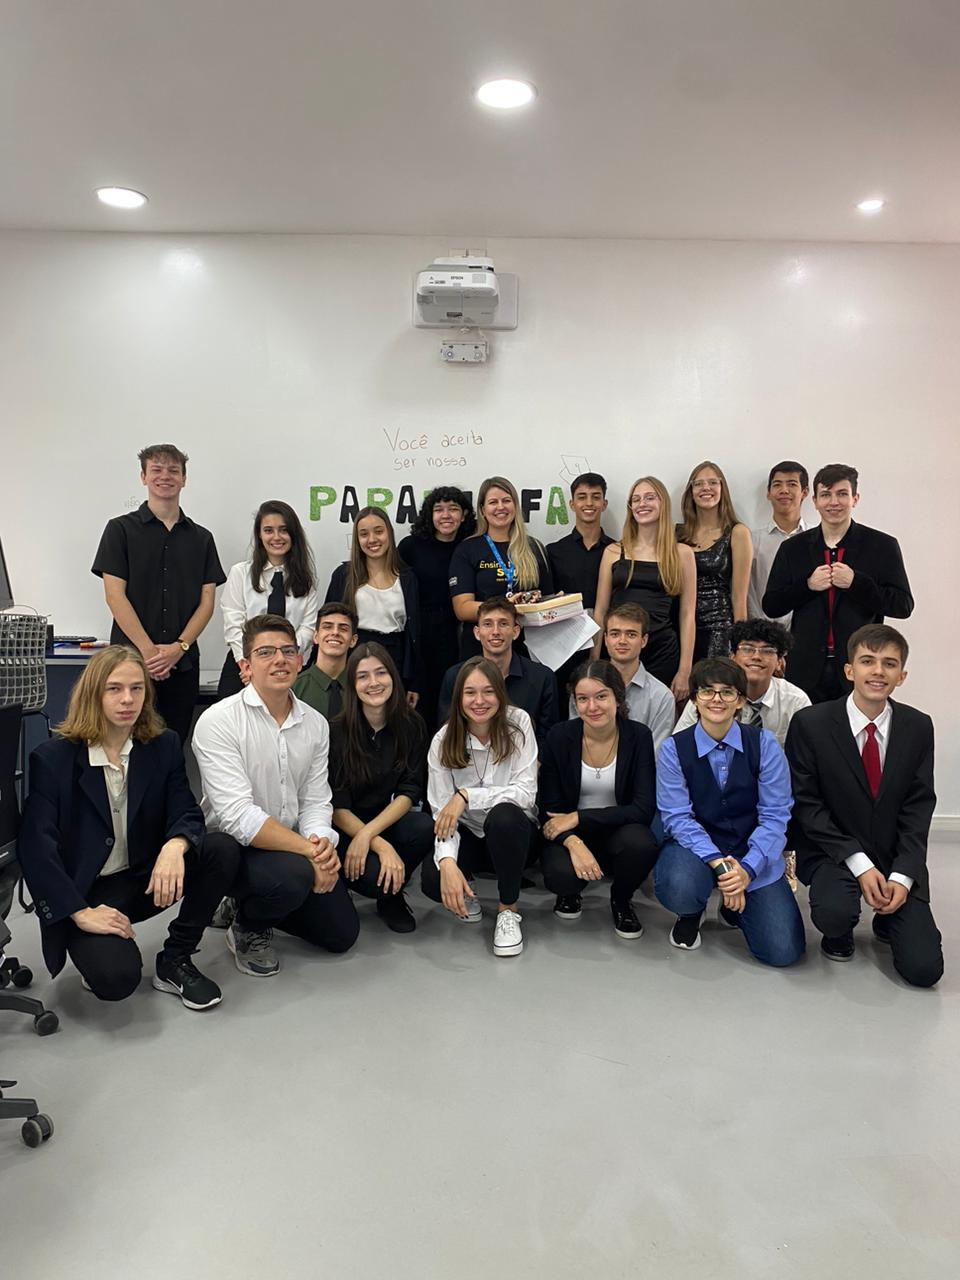
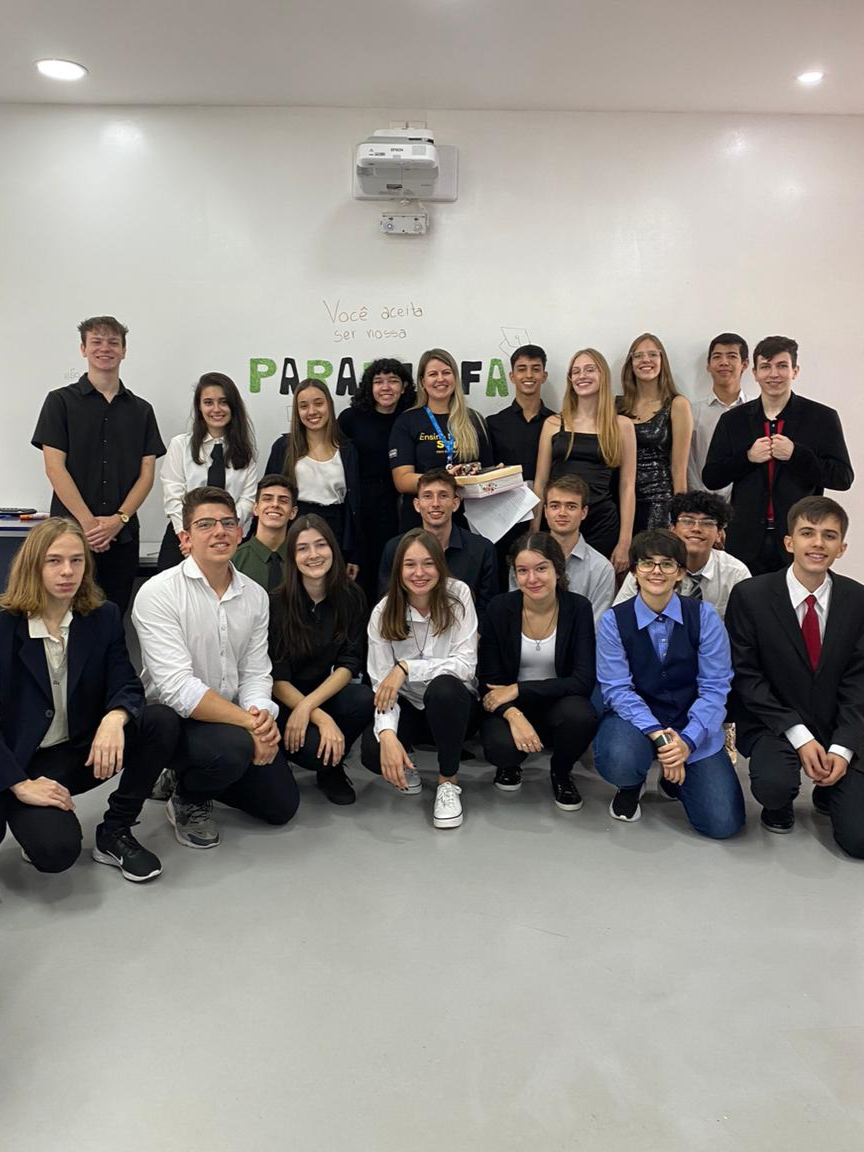
testando upload

diff --git a/joaquim/anuario/index.html b/joaquim/anuario/index.html
@@ -454,7 +454,7 @@
         
         <div class="col">
           <div class="card shadow-sm">
-            <img src="img/dia_formal.png" width="100%" height="470">
+            <img src="img/dia_formal.png" width="100%" height="370">
             <!-- <svg class="bd-placeholder-img card-img-top" width="100%" height="225" xmlns="http://www.w3.org/2000/svg" role="img" aria-label="Placeholder: Thumbnail" preserveAspectRatio="xMidYMid slice" focusable="false"><title>Placeholder</title><rect width="100%" height="100%" fill="#55595c"/><text x="50%" y="50%" fill="#eceeef" dy=".3em">Colocar Imagem</text></svg> -->
             <div class="card-body">
               <h5 class="fw-light"><strong>Dia Temático - Formal</strong></h5><br>
@@ -472,7 +472,7 @@
         
         <div class="col">
           <div class="card shadow-sm">
-            <img src="img/parafinfa.png" width="100%" height="470"> <!-- taxa de proprçaõ de imagem: 230px X 300px -->
+            <img src="img/parafinfa.png" width="100%" height="370"> <!-- taxa de proprçaõ de imagem: 230px X 300px -->
             <div class="card-body">
               <h5 class="fw-light"><strong>Paraninfa</strong></h5><br>
               <p class="card-text">No mesmo dia do trote formal, fizemos o pedido à <b>Profª. Lívia</b> para ser nossa parafinfa, confirmando ser a nossa referência e inspiração ao longo do ano.</p>
@@ -489,10 +489,10 @@
 
         <div class="col">
           <div class="card shadow-sm">
-            <img src="img/dia_troca.png" width="100%" height="470"><!-- <svg class="bd-placeholder-img card-img-top" width="100%" height="225" xmlns="http://www.w3.org/2000/svg" role="img" aria-label="Placeholder: Thumbnail" preserveAspectRatio="xMidYMid slice" focusable="false"><title>Placeholder</title><rect width="100%" height="100%" fill="#55595c"/><text x="50%" y="50%" fill="#eceeef" dy=".3em">Colocar Imagem</text></svg> -->
+            <img src="img/dia_troca.png" width="100%" height="370"><!-- <svg class="bd-placeholder-img card-img-top" width="100%" height="225" xmlns="http://www.w3.org/2000/svg" role="img" aria-label="Placeholder: Thumbnail" preserveAspectRatio="xMidYMid slice" focusable="false"><title>Placeholder</title><rect width="100%" height="100%" fill="#55595c"/><text x="50%" y="50%" fill="#eceeef" dy=".3em">Colocar Imagem</text></svg> -->
             <div class="card-body">
               <h5 class="fw-light"><strong>Dia Temático - Troca de Armário</strong></h5><br>
-              <p class="card-text">O segundo trote (17/04) foi o <b>Troca de Armário</b>, em que um menino e uma menina trocavam as peças de roupa de seus armários. A manhã gerou diversas risadas.</p>
+              <p class="card-text">O segundo trote (17/04), foi a <b>Troca de Armário</b>, em que um menino e uma menina trocavam as peças de roupa de seus armários. Foi muito engraçado e gerou divresas risadas.</p>
               <!-- <div class="d-flex justify-content-between align-items-center">
                 <div class="btn-group">
                   <button type="button" class="btn btn-sm btn-outline-secondary">View</button>
@@ -506,7 +506,7 @@
 
         <div class="col">
           <div class="card shadow-sm">
-            <img src="img/camisetas_terceirao.png" width="100%" height="470"><!-- <svg class="bd-placeholder-img card-img-top" width="100%" height="225" xmlns="http://www.w3.org/2000/svg" role="img" aria-label="Placeholder: Thumbnail" preserveAspectRatio="xMidYMid slice" focusable="false"><title>Placeholder</title><rect width="100%" height="100%" fill="#55595c"/><text x="50%" y="50%" fill="#eceeef" dy=".3em">Colocar Imagem</text></svg> -->
+            <img src="img/camisetas_terceirao.png" width="100%" height="370"><!-- <svg class="bd-placeholder-img card-img-top" width="100%" height="225" xmlns="http://www.w3.org/2000/svg" role="img" aria-label="Placeholder: Thumbnail" preserveAspectRatio="xMidYMid slice" focusable="false"><title>Placeholder</title><rect width="100%" height="100%" fill="#55595c"/><text x="50%" y="50%" fill="#eceeef" dy=".3em">Colocar Imagem</text></svg> -->
             <div class="card-body">
               <h5 class="fw-light"><strong>Camisetas Terceirão</strong></h5><br>
               <p class="card-text">No dia 25/04 recebemos as <b>camisetas da turma</b>, que têm na parte de trás uma imagem do Roberto Cálcio (mascote da turma) e na frente o símbolo do CSS remetendo a um três, de 3° ano.</p>
@@ -523,10 +523,10 @@
 
         <div class="col">
           <div class="card shadow-sm">
-            <img src="img/viagem_puc.png" width="100%" height="470"><!-- <svg class="bd-placeholder-img card-img-top" width="100%" height="225" xmlns="http://www.w3.org/2000/svg" role="img" aria-label="Placeholder: Thumbnail" preserveAspectRatio="xMidYMid slice" focusable="false"><title>Placeholder</title><rect width="100%" height="100%" fill="#55595c"/><text x="50%" y="50%" fill="#eceeef" dy=".3em">Colocar Imagem</text></svg> -->
+            <img src="img/viagem_puc.png" width="100%" height="370"><!-- <svg class="bd-placeholder-img card-img-top" width="100%" height="225" xmlns="http://www.w3.org/2000/svg" role="img" aria-label="Placeholder: Thumbnail" preserveAspectRatio="xMidYMid slice" focusable="false"><title>Placeholder</title><rect width="100%" height="100%" fill="#55595c"/><text x="50%" y="50%" fill="#eceeef" dy=".3em">Colocar Imagem</text></svg> -->
             <div class="card-body">
-              <h5 class="fw-light"><strong>Sáida de Campo</strong></h5><br>
-              <p class="card-text">No dia (27/04) os estudantes dos três anos do Enisno Médio Senac realizaram uma <b>saída de campo ao Museu da PUC</b>, em Porto Alegre, e depois passearam no Shpping Iguatemi para conhecer mais da cidade.</p>
+              <h5 class="fw-light"><strong>Saída de Campo</strong></h5><br>
+              <p class="card-text">No dia 27/04 os estudantes dos três anos do Enisno Médio Senac realizaram uma <b>saída de campo ao Museu da PUC</b>, em Porto Alegre, e depois passearam no Shpping Iguatemi para conhecer mais da cidade.</p>
               <!-- <div class="d-flex justify-content-between align-items-center">
                 <div class="btn-group">
                   <button type="button" class="btn btn-sm btn-outline-secondary">View</button>
@@ -540,34 +540,38 @@
 
         <div class="col">
           <div class="card shadow-sm">
-            <svg class="bd-placeholder-img card-img-top" width="100%" height="225" xmlns="http://www.w3.org/2000/svg" role="img" aria-label="Placeholder: Thumbnail" preserveAspectRatio="xMidYMid slice" focusable="false"><title>Placeholder</title><rect width="100%" height="100%" fill="#55595c"/><text x="50%" y="50%" fill="#eceeef" dy=".3em">Thumbnail</text></svg>
+            <img src="img/aula_mat_oba.jpg" width="100%" height="370"><!-- <svg class="bd-placeholder-img card-img-top" width="100%" height="225" xmlns="http://www.w3.org/2000/svg" role="img" aria-label="Placeholder: Thumbnail" preserveAspectRatio="xMidYMid slice" focusable="false"><title>Placeholder</title><rect width="100%" height="100%" fill="#55595c"/><text x="50%" y="50%" fill="#eceeef" dy=".3em">Colocar Imagem</text></svg> -->
             <div class="card-body">
-              <p class="card-text">This is a wider card with supporting text below as a natural lead-in to additional content. This content is a little bit longer.</p>
-              <div class="d-flex justify-content-between align-items-center">
+              <h5 class="fw-light"><strong>Aula diferente</strong></h5><br>
+              <p class="card-text">Nem sempre as <b>aulas de matemática</b> precisam ser chatas, por isso, dia 17/05 a prof. Lívia nos levou ao <b>Parque da Oktoberfest</b> para realizarmos um lanche coletivo e questões envolvendo logaritmos.</p>
+              <!-- <div class="d-flex justify-content-between align-items-center">
                 <div class="btn-group">
                   <button type="button" class="btn btn-sm btn-outline-secondary">View</button>
                   <button type="button" class="btn btn-sm btn-outline-secondary">Edit</button>
                 </div>
                 <small class="text-body-secondary">9 mins</small>
-              </div>
+              </div> -->
             </div>
           </div>
         </div>
+
         <div class="col">
           <div class="card shadow-sm">
-            <svg class="bd-placeholder-img card-img-top" width="100%" height="225" xmlns="http://www.w3.org/2000/svg" role="img" aria-label="Placeholder: Thumbnail" preserveAspectRatio="xMidYMid slice" focusable="false"><title>Placeholder</title><rect width="100%" height="100%" fill="#55595c"/><text x="50%" y="50%" fill="#eceeef" dy=".3em">Thumbnail</text></svg>
+            <img src="img/awise_profissionais.jpg" width="100%" height="370"><!-- <svg class="bd-placeholder-img card-img-top" width="100%" height="225" xmlns="http://www.w3.org/2000/svg" role="img" aria-label="Placeholder: Thumbnail" preserveAspectRatio="xMidYMid slice" focusable="false"><title>Placeholder</title><rect width="100%" height="100%" fill="#55595c"/><text x="50%" y="50%" fill="#eceeef" dy=".3em">Colocar Imagem</text></svg> -->
             <div class="card-body">
-              <p class="card-text">This is a wider card with supporting text below as a natural lead-in to additional content. This content is a little bit longer.</p>
-              <div class="d-flex justify-content-between align-items-center">
+              <h5 class="fw-light"><strong>Conversa com profissionais da Awise</strong></h5><br>
+              <p class="card-text">Durante o ano estamos tendo diversas <b>conversas com profissionais</b>, para sabermos a realidade das profissões. Dessa vez, a conversa foi com mulheres que trabalham na <b>Awise</b>, uma empresa de tecnologia da cidade.</p>
+              <!-- <div class="d-flex justify-content-between align-items-center">
                 <div class="btn-group">
                   <button type="button" class="btn btn-sm btn-outline-secondary">View</button>
                   <button type="button" class="btn btn-sm btn-outline-secondary">Edit</button>
                 </div>
                 <small class="text-body-secondary">9 mins</small>
-              </div>
+              </div> -->
             </div>
           </div>
         </div>
+
         <div class="col">
           <div class="card shadow-sm">
             <svg class="bd-placeholder-img card-img-top" width="100%" height="225" xmlns="http://www.w3.org/2000/svg" role="img" aria-label="Placeholder: Thumbnail" preserveAspectRatio="xMidYMid slice" focusable="false"><title>Placeholder</title><rect width="100%" height="100%" fill="#55595c"/><text x="50%" y="50%" fill="#eceeef" dy=".3em">Thumbnail</text></svg>
